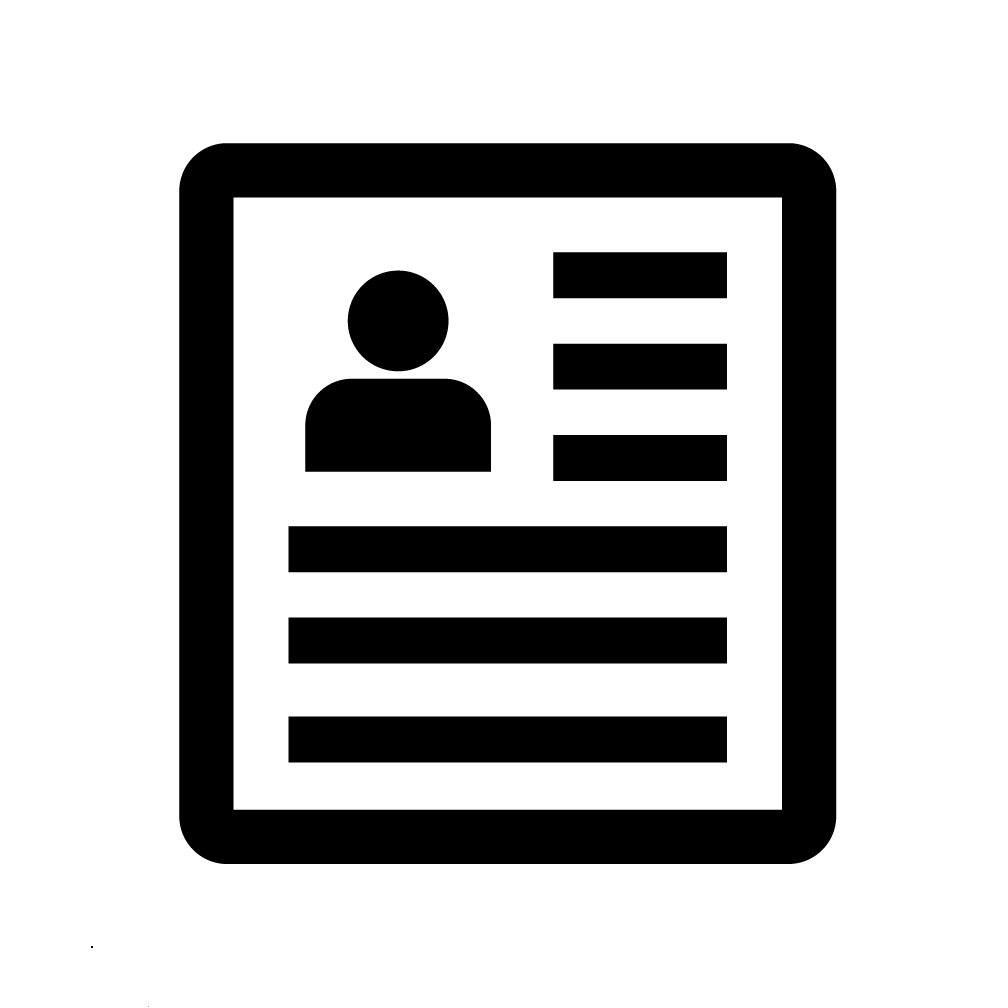
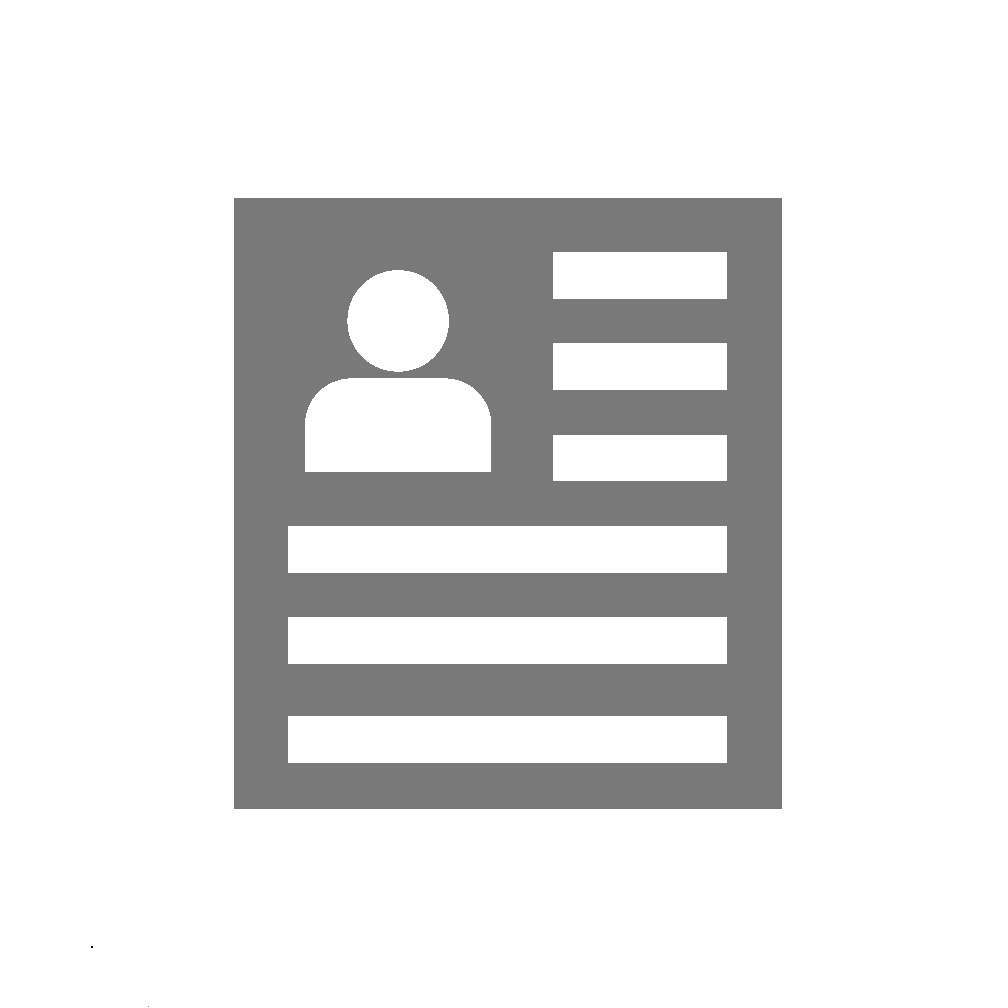
Stylistic Overhaul
-Added panning to background
-revised colors for icons to fit background

diff --git a/docs/motio.min.js b/docs/motio.min.js
@@ -1,0 +1,9 @@
+/*! motio 2.2.2 - 7th Aug 2014 | https://github.com/darsain/motio */
+(function(h,C){function l(a,D){function k(c){d.reversed=c;s||(b.isPaused=!1,x("play"),s=u(l))}function l(){s=u(l);var c=E();60>e.fps&&d.lastFrame&&d.lastFrame+1E3/e.fps+1>c||(d.lastFrame=c,v?(g.x+=e.speedX/e.fps,g.y+=e.speedY/e.fps,e.bgWidth&&Math.abs(g.x)>e.bgWidth&&(g.x%=e.bgWidth),e.bgHeight&&Math.abs(g.y)>e.bgHeight&&(g.y%=e.bgHeight)):(d.finite?m=d.immediate?d.to:m+(m>d.to?-1:1):d.reversed?0>=--m&&(m=q.length-1):++m>=q.length&&(m=0),b.frame=m),y=v?Math.round(g.x)+"px "+Math.round(g.y)+"px":q[m],
+y!==A&&(a.style.backgroundPosition=A=y),x("frame"),d.finite&&d.to===m&&(b.pause(),"function"===p(d.callback)&&d.callback.call(b)))}function B(c,b){r=0;for(w=n[c].length;r<w;r++)if(n[c][r]===b)return r;return-1}function x(c,a){if(n[c])for(r=0,w=n[c].length;r<w;r++)n[c][r].call(b,c,a)}function z(c){return h.getComputedStyle?h.getComputedStyle(a,null)[c]:a.currentStyle[c]}var e=F(D),b=this,v=!e.frames,q=[],n={},d={},m=0,g,y,A,s,r,w;b.element=a;b.width=e.width||a.clientWidth;b.height=e.height||a.clientHeight;
+b.options=e;b.isPaused=!0;b.pause=function(){t(s);s=0;d.lastFrame=0;b.isPaused||(b.isPaused=!0,x("pause"));return b};b.play=function(c){d.finite=!1;d.callback=C;d.immediate=!1;k(c);return b};b.toggle=function(){b[s?"pause":"play"]();return b};b.toStart=function(c,a){return b.to(0,c,a)};b.toEnd=function(c,a){return b.to(q.length-1,c,a)};b.to=function(c,a,f){if(v||isNaN(parseFloat(c))||!isFinite(c)||0>c||c>=q.length)return b;"function"===p(a)&&(f=a,a=!1);if(c===m)if(0===c)m=q.length;else if(c===q.length-
+1)m=-1;else return"function"===p(f)&&f.call(b),b.pause(),b;d.finite=!0;d.to=c;d.immediate=!!a;d.callback=f;k();return b};b.set=function(c,a){e[c]=a;return b};b.on=function(c,a){if("object"===p(c))for(var f in c){if(c.hasOwnProperty(f))b.on(f,c[f])}else if("function"===p(a)){f=c.split(" ");for(var d=0,e=f.length;d<e;d++)n[f[d]]=n[f[d]]||[],-1===B(f[d],a)&&n[f[d]].push(a)}else if("array"===p(a))for(f=0,d=a.length;f<d;f++)b.on(c,a[f]);return b};b.off=function(a,d){if(d instanceof Array)for(var f=0,e=
+d.length;f<e;f++)b.off(a,d[f]);else for(var f=a.split(" "),e=0,g=f.length;e<g;e++)if(n[f[e]]=n[f[e]]||[],"undefined"===p(d))n[f[e]].length=0;else{var h=B(f[e],d);-1!==h&&n[f[e]].splice(h,1)}return b};b.destroy=function(){b.pause();a.style.backgroundPosition="";return b};(function(){var a=(z("backgroundPosition")||z("backgroundPositionX")+" "+z("backgroundPositionY")).replace(/left|top/gi,0).split(" ");g={x:0|parseInt(a[0],10),y:0|parseInt(a[1],10)};if(v)b.pos=g;else{for(a=q.length=0;a<e.frames;a++)e.vertical?
+g.y=a*-b.height:g.x=a*-b.width,q.push(g.x+"px "+g.y+"px");b.frames=q.length;b.frame=0}})()}function p(a){return null==a?String(a):"object"===typeof a||"function"===typeof a?a instanceof h.NodeList&&"nodelist"||a instanceof h.HTMLCollection&&"htmlcollection"||Object.prototype.toString.call(a).match(/\s([a-z]+)/i)[1].toLowerCase():typeof a}function F(a){var h={};a="object"===p(a)?a:{};for(var k in l.defaults)h[k]=(a.hasOwnProperty(k)?a:l.defaults)[k];return h}var t=h.cancelAnimationFrame||h.cancelRequestAnimationFrame,
+u=h.requestAnimationFrame;(function(){for(var a=["moz","webkit","o"],p=0,k=0,l=a.length;k<l&&!t;++k)u=(t=h[a[k]+"CancelAnimationFrame"]||h[a[k]+"CancelRequestAnimationFrame"])&&h[a[k]+"RequestAnimationFrame"];t||(u=function(a){var k=+new Date,l=Math.max(0,16-(k-p));p=k+l;return h.setTimeout(function(){a(k+l)},l)},t=function(a){clearTimeout(a)})})();var E=function(){var a=h.performance;return a&&a.now?a.now.bind(a):function(){return+new Date}}();h.Motio=l;l.defaults={fps:15,frames:0,vertical:0,width:0,
+height:0,speedX:0,speedY:0,bgWidth:0,bgHeight:0}})(window);

diff --git a/index.html b/index.html
@@ -7,6 +7,7 @@
 <script src="docs/rainyday.js"></script>
 <script src="https://ajax.googleapis.com/ajax/libs/jquery/3.1.1/jquery.min.js"></script>
 <script src="docs/jquery-3.1.1.min.js"></script>
+<script src="docs/motio.min.js"></script>
 <script src="docs/typed.js"></script>
 
 
@@ -23,42 +24,32 @@ var backgrounds = ["1.jpg",
 
 var index = Math.floor(Math.random() * 3);
 
-console.log(index);
+$(document).ready(function(){
+    $("body").click(function(){
+        $("#mew-image").fadeIn();
 
-var back = 'url(/Pics/' + 2 + '.jpg)';
+    });
+});
+ $(function(){
+      $(".heading").typed({
+        strings: ["^200 Engineer", "^500 Deep Learning Enthusiast", "^500 Aspiring Animator", "^300 Amateur Beatboxer", "^200 Dreamer"],
+        typeSpeed: 25,
+        backSpeed: 25,
+        showCursor: true,
+        cursorChar: "<",
+        loop: true,
+        // cursorChar: "<",
 
-console.log(back);
+      });
+ });
 
-//document.getElementById('background').style.backgroundImage= back; 
+var element = document.querySelector('#back');
+var panning = new Motio(element, {
+    fps: 45, // Frames per second. More fps = higher CPU load.
+    speedX: -45 // Negative horizontal speed = panning to left.
+});
 
-
-	$(document).ready(function(){
-	    $("body").click(function(){
-	        $("#mew-image").fadeIn();
-	        
-	    });
-	});
-	 $(function(){
-	      $(".heading").typed({
-	        strings: ["^200 Engineer", "^500 Deep Learning Enthusiast", "^500 Aspiring Animator", "^300 Amateur Beatboxer", "^200 Dreamer"],
-	        typeSpeed: 25,
-	        backSpeed: 25,
-	        showCursor: true,
-	        cursorChar: "<",
-	        loop: true,
-		    // cursorChar: "<",
-
-	      });
-	 });
-
-
-
-// $(document).ready(function () {
-//     setTimeout(function(){
-//         $('.text').fadeIn(1000);
-//     }, 3500);
-// });
-
+panning.play(); // start animation
 
 </script>
 
@@ -77,18 +68,16 @@ console.log(back);
 
 
 
-<!--
-<a href="background.html" target="right" id="reload"><img src="home.jpg" width="175" height="100"alt=""/></a>
--->
+<!--<a href="background.html" target="right" id="reload"><img src="home.jpg" width="175" height="100"alt=""/></a>-->
 <center>
 <div style="height:50px;"></div>
 
 <table style="margin:30px 30px;">
 	<tr>
-		<img class="portrait" src="docs/Pics/namelogo.png" " style="width:326.2px;height:117.6px;">
+        <img class="portrait" src="docs/Pics/namelogo.png" " style="width:326.2px;height:117.6px;"><
 	</tr>
 	<tr>
-	   <h2>  <span class="heading"> </span>
+	   <h2> <span class="heading"> </span>
 
 	</h2>
 	</tr>
@@ -156,7 +145,8 @@ console.log(back);
 
 </center> -->
 
-
+<script>
+                                                                                                    
 
 
 
